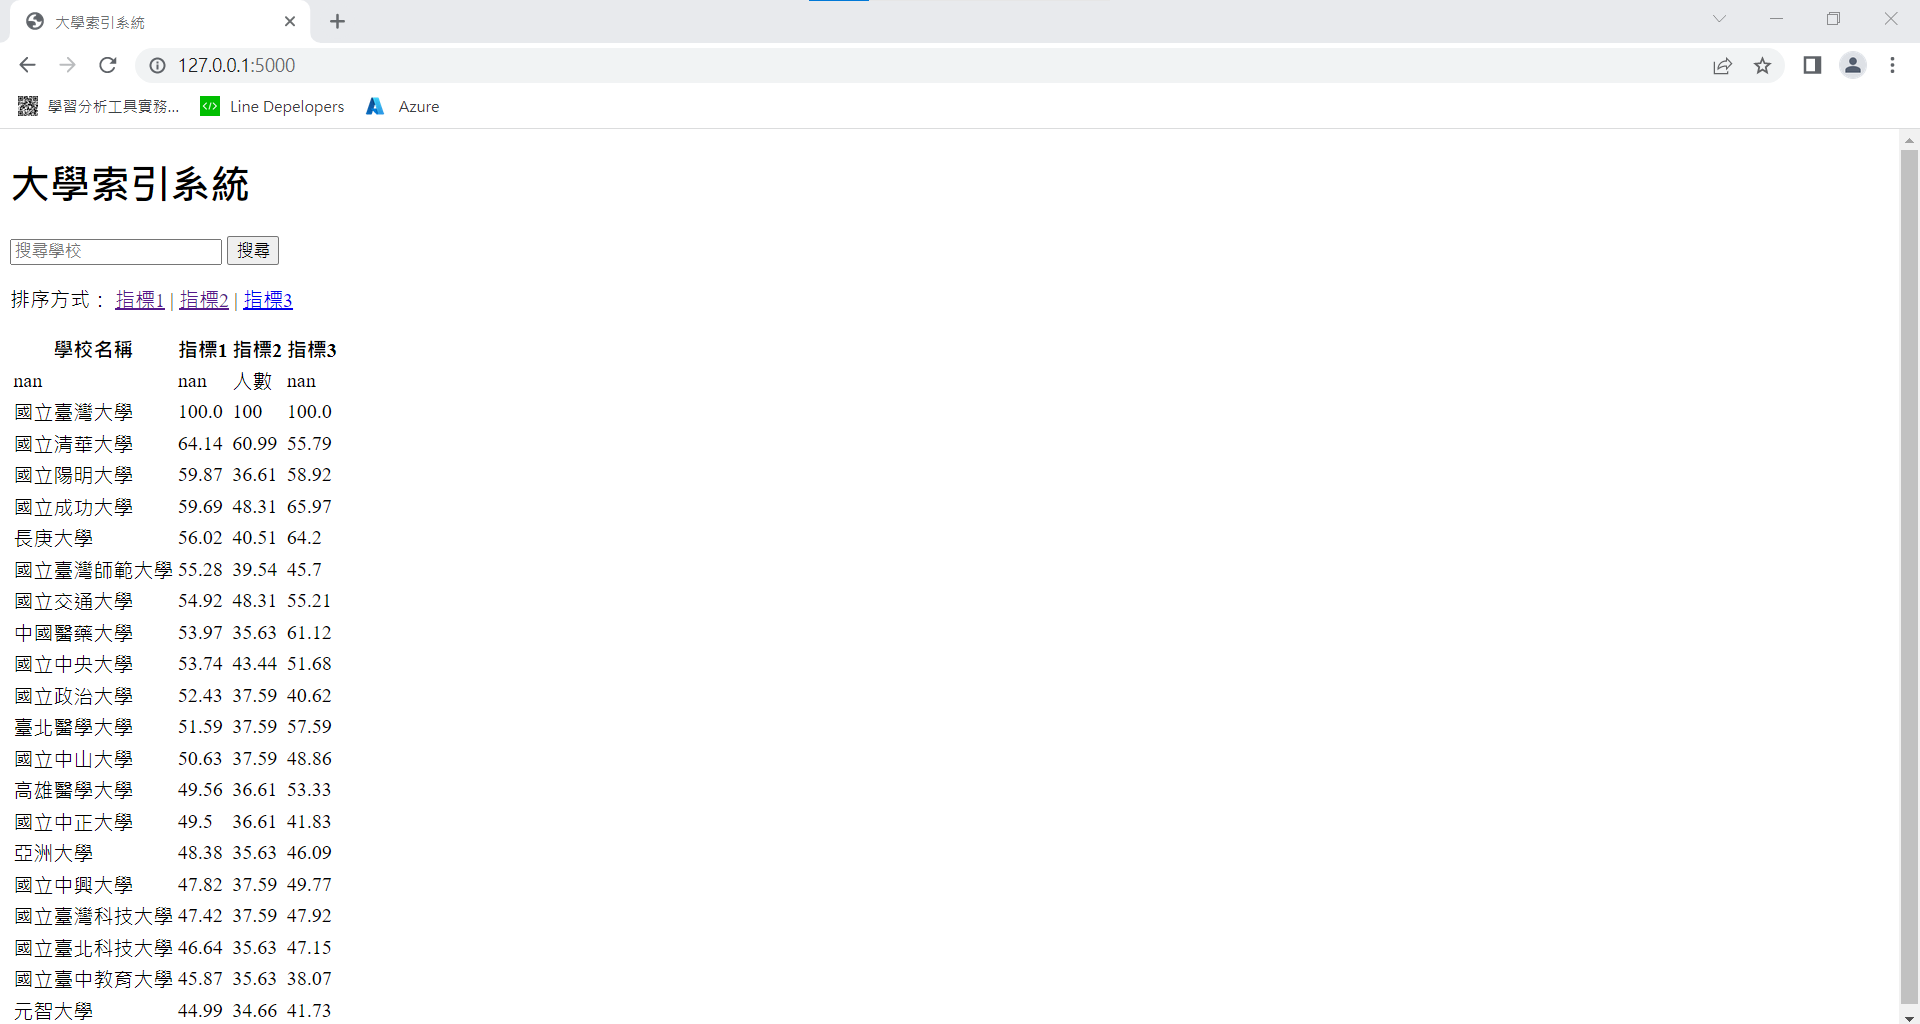
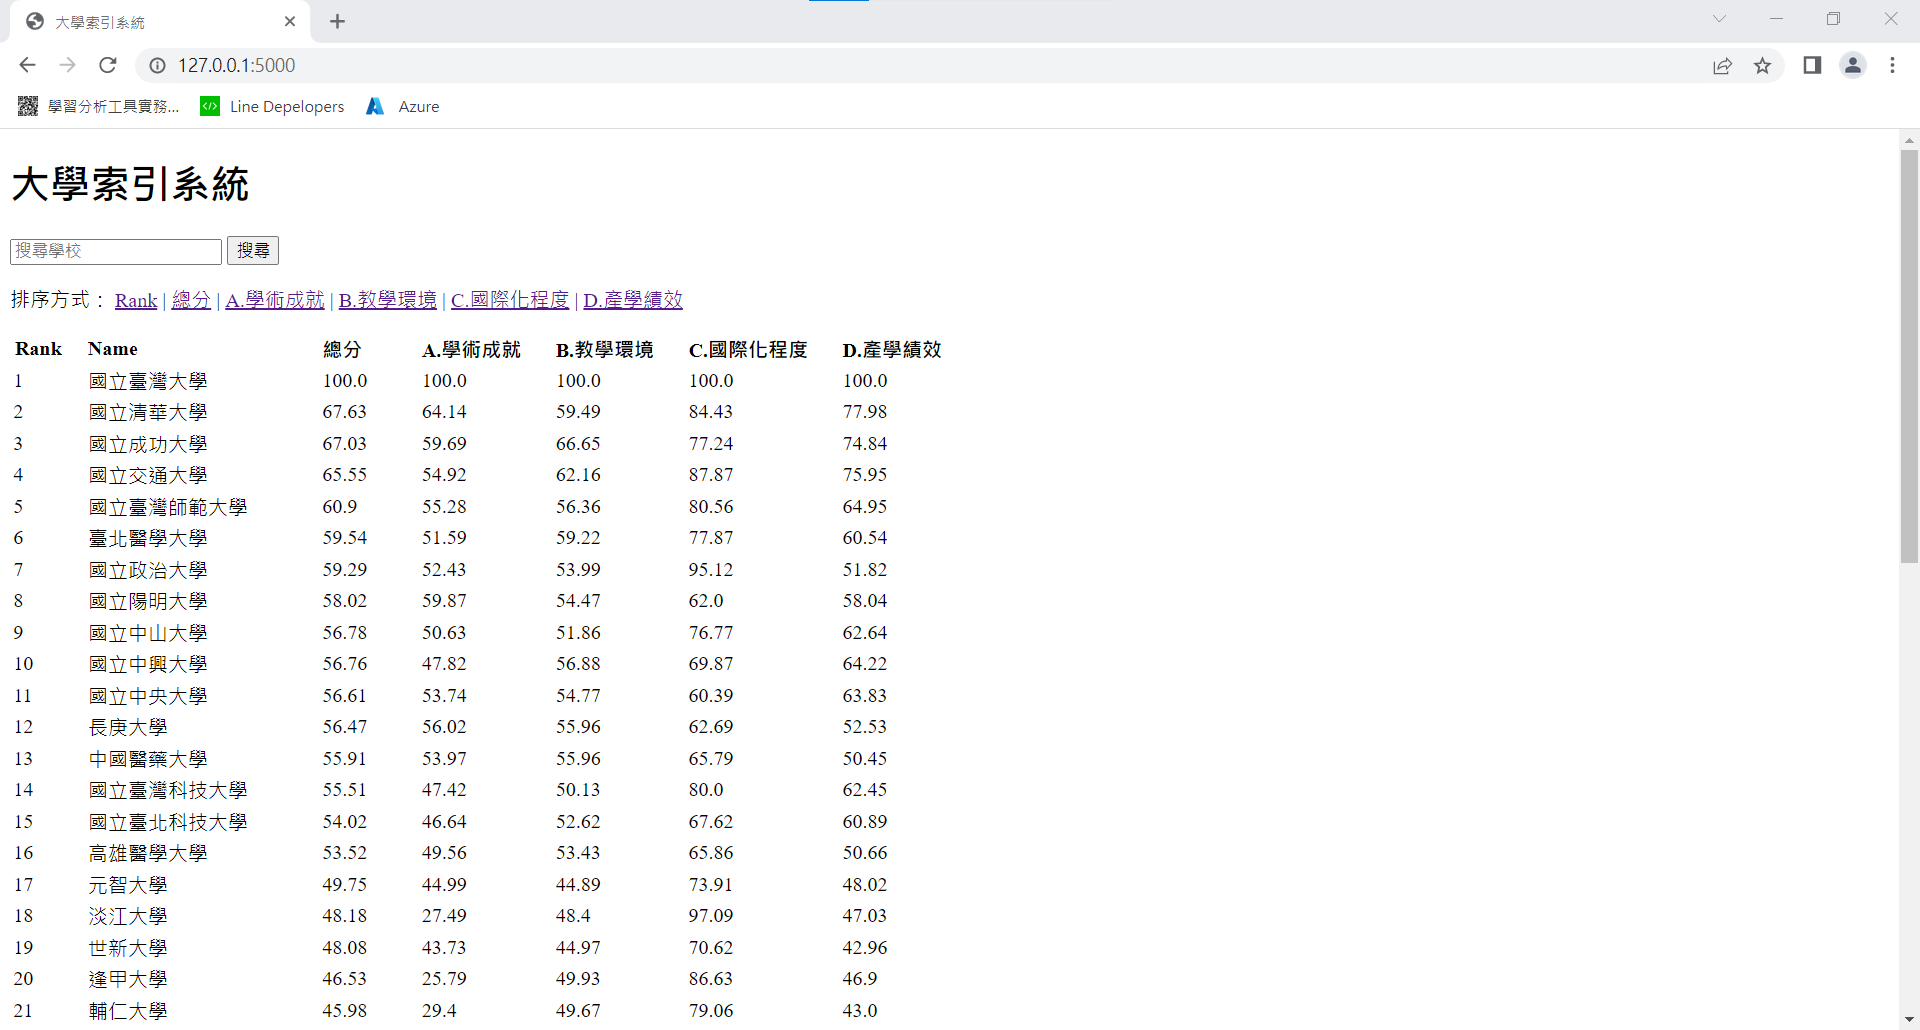
final 20230531

diff --git a/finall project/final/templates/index.html b/finall project/final/templates/index.html
@@ -1,0 +1,77 @@
+<!DOCTYPE html>
+<html>
+<head>
+    <title>大學索引系統</title>
+    <style>
+      .home-button {
+          background-color: #4a4f4a;
+          border: none;
+          color: white;
+          padding: 10px 20px;
+          text-align: center;
+          text-decoration: none;
+          display: inline-block;
+          font-size: 16px;
+          margin-bottom: 10px;
+          cursor: pointer;
+      }
+  </style>
+</head>
+<body>
+    <h1>大學索引系統</h1>
+
+    <!-- 搜索框 -->
+    <form action="/" method="get">
+        <input type="text" name="search_query" placeholder="搜尋學校">
+        <button type="submit">搜尋</button>
+    </form>
+
+    <!-- 排序連結 -->
+    <p>排序方式：
+        <a href="/?sort_by=Rank">Rank</a> |
+        <a href="/?sort_by=總分">總分</a> |
+        <a href="/?sort_by=A.學術成就">A.學術成就</a> |
+        <a href="/?sort_by=B.教學環境">B.教學環境</a> |
+        <a href="/?sort_by=C.國際化程度">C.國際化程度</a> |
+        <a href="/?sort_by=D.產學績效">D.產學績效</a>
+    </p>
+
+
+    <!-- 顯示表格 -->
+<table>
+    <thead>
+      <tr>
+        <th>Rank&nbsp;&nbsp;&nbsp;&nbsp;</th>
+        <th>Name&nbsp;&nbsp;&nbsp;&nbsp;&nbsp;&nbsp;&nbsp;&nbsp;&nbsp;&nbsp;&nbsp;
+          &nbsp;&nbsp;&nbsp;&nbsp;&nbsp;&nbsp;&nbsp;&nbsp;&nbsp;&nbsp;&nbsp;&nbsp;
+          &nbsp;&nbsp;&nbsp;&nbsp;&nbsp;&nbsp;&nbsp;&nbsp;&nbsp;&nbsp;&nbsp;</th>
+        <th>總分&nbsp;&nbsp;&nbsp;&nbsp;&nbsp;&nbsp;&nbsp;&nbsp;&nbsp;&nbsp;&nbsp;</th>
+        <th>A.學術成就&nbsp;&nbsp;&nbsp;&nbsp;&nbsp;&nbsp;</th>
+        <th>B.教學環境&nbsp;&nbsp;&nbsp;&nbsp;&nbsp;&nbsp;</th>
+        <th>C.國際化程度&nbsp;&nbsp;&nbsp;&nbsp;&nbsp;&nbsp;</th>
+        <th>D.產學績效&nbsp;&nbsp;&nbsp;&nbsp;&nbsp;&nbsp;</th>
+      </tr>
+    </thead>
+    <tbody>
+      {% for row in df_filtered %}
+      <tr>
+        <td>{{ row['Rank'] }}&nbsp;&nbsp;&nbsp;&nbsp;&nbsp;&nbsp;&nbsp;&nbsp;&nbsp;&nbsp;</td> 
+        <td>{{ row['Name'] }}&nbsp;&nbsp;&nbsp;&nbsp;&nbsp;&nbsp;&nbsp;&nbsp;&nbsp;&nbsp;</td> 
+        <td>{{ row['總分'] }}&nbsp;&nbsp;&nbsp;&nbsp;&nbsp;&nbsp;&nbsp;&nbsp;&nbsp;&nbsp;</td> 
+        <td>{{ row['A.學術成就'] }}&nbsp;&nbsp;&nbsp;&nbsp;&nbsp;&nbsp;&nbsp;&nbsp;&nbsp;&nbsp;</td>
+        <td>{{ row['B.教學環境'] }}&nbsp;&nbsp;&nbsp;&nbsp;&nbsp;&nbsp;&nbsp;&nbsp;&nbsp;&nbsp;</td>
+        <td>{{ row['C.國際化程度'] }}&nbsp;&nbsp;&nbsp;&nbsp;&nbsp;&nbsp;&nbsp;&nbsp;&nbsp;&nbsp;</td>
+        <td>{{ row['D.產學績效'] }}</td>
+      </tr>
+      {% endfor %}
+
+    </tbody>
+  </table>
+
+  <br>
+  
+  <!-- 返回首頁按钮 -->
+  <button class="home-button" onclick="location.href='/'">返回首頁</button>
+
+</body>
+</html>

diff --git a/finall project/final/app.py b/finall project/final/app.py
@@ -1,0 +1,46 @@
+import pandas as pd
+from flask import Flask, render_template, request, redirect
+
+# 創建Flask應用程式
+app = Flask(__name__)
+
+# 讀取資料並創建DataFrame（假設名為df）
+df = pd.read_csv('df_rank.csv',encoding="big5")
+
+
+# 定義首頁路由
+@app.route('/')
+@app.route('/index')
+
+
+def index():
+    # 獲取排序參數
+    sort_by = request.args.get('sort_by')
+
+    # 獲取搜尋參數
+    search_query = request.args.get('search_query')
+
+    # 根據排序參數對DataFrame進行排序
+    if sort_by:
+        df_sorted = df.sort_values(by=sort_by, ascending=False)
+    else:
+        df_sorted = df
+
+    # 根據搜尋參數過濾DataFrame
+    if search_query:
+        df_filtered = df_sorted[df_sorted['Name'].str.contains(search_query, na=False)]
+    else:
+        df_filtered = df_sorted
+
+    # 将DataFrame转换为字典格式
+    df_dict = df_filtered.to_dict(orient='records')
+
+    # 將DataFrame傳遞到模板
+    return render_template('index.html', df_filtered=df_dict, sort_by=sort_by)
+
+
+# 啟動應用程式
+if __name__ == '__main__':
+    app.debug = True
+    app.run()
+
